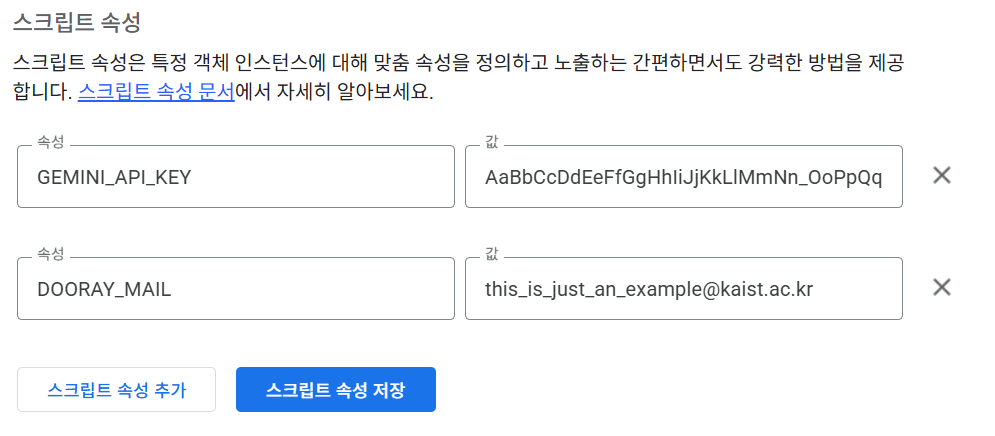
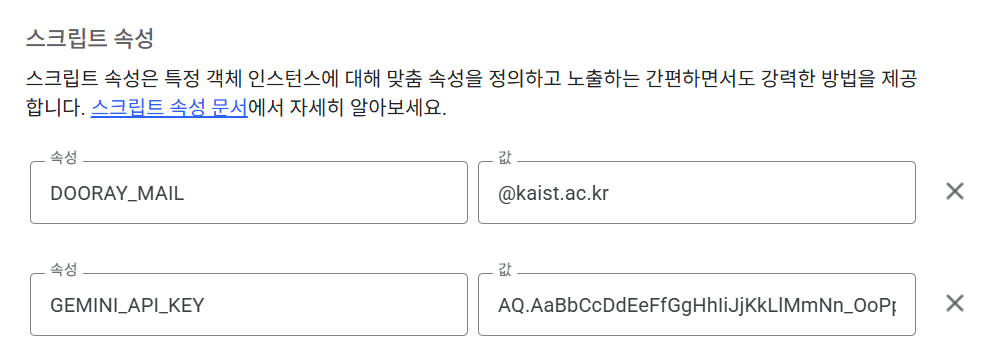
Update README.md

diff --git a/README.md b/README.md
@@ -92,7 +92,7 @@ API 키를 발급 완료했습니다. 다시 Google Apps Script로 돌아온 뒤
 
 ![Script Property 설정 3](etc/Photos/18.png)
 
-이메일 주소와 저장할 Calendar ID도 여기서 등록해야 합니다. 먼저 이메일 주소를 입력하기 위해 "Add Script property"를 눌러서 Property에는 "DOORAY_MAIL"을 입력하고 Value에는 Dooray! 메일 주소를 입력하세요. **Gmail 주소가 아니라 Dooray! 메일 주소를 입력해야 합니다.**
+이메일 주소와 저장할 Calendar ID도 여기서 등록해야 합니다. 먼저 이메일 주소를 입력하기 위해 "Add Script property"를 눌러서 Property에는 "DOORAY_MAIL"을 입력하고 Value에는 여러분이 받아서 처리하고 싶은 Dooray! 메일 주소를 입력하세요. 아래 예시의 경우 @kaist.ac.kr로부터 보내지는 모든 메일 주소를 기준으로 하였습니다. **Gmail 주소가 아니라 Dooray! 메일 주소를 입력해야 합니다.**
 
 ![Script Property 설정 4](etc/Photos/19.png)
 
@@ -123,8 +123,11 @@ Log가 정상적으로 뜨면 잘 작동했다는 뜻입니다. 이제 자동화
 
 
 # 어떻게 커스터마이징하나요?
+이 프로젝트는 정답이 정해진 완제품이 아닙니다. 본인의 업무 스타일에 맞춰 내 마음대로 뜯어고쳐 쓸 수 있도록 만들어졌습니다. 
 
-이 프로젝트는 정답이 정해진 완제품이 아닙니다. 본인의 업무 스타일에 맞춰 내 마음대로 뜯어고쳐 쓸 수 있도록 만들어졌습니다. Gemini API를 사용하는 만큼, 현재 사용되는 프롬프트인 
+위의 예시에서는 `DOORAY_MAIL` 값을 `@kaist.ac.kr`로 지정하였고, 코드 내 `searchQuery` 변수를 `is:unread to:(${DOORAY_MAIL})`로 설정하여 읽지 않은 메일 중 `@kaist.ac.kr`로부터 날아온 메일만 처리하도록 하였습니다. 여기서 `searchQuery`를 `is:unread from:(${DOORAY_MAIL})`으로 바꾼다면 `@kaist.ac.kr`로 온 메일들만 처리하게 됩니다. 이런 방식들로 검색하고 싶은 메일을 원하는 방식으로 지정이 가능하고, 여러 가지 문법들로 다양한 필터링이 가능합니다.
+
+또한 Gemini API를 사용하는 만큼, 현재 코드 내에서 Gemini API에게 사용되는 프롬프트는 다음과 같은데:
 
 ```js
 const prompt = `
@@ -156,7 +159,9 @@ ${body.substring(0, 4000)}
 }
 `;
 ```
-위 내용을 변경한다면 원하는 대로 사용이 가능합니다. 요약 스타일을 변경한다던지, 시간 기본값 세팅을 바꾼다던지, 특정 키워드가 들어가면 제목 앞에 무조건 \[긴급\] 같은 글자를 붙인다던지 하는 방식으로 할 수 있습니다. 또한 코드 자체는 Dooray!의 자동 전달 메일 기능을 사용해 Gmail에서만 동작하게 한 Google Apps Script 코드이므로 Gmail로 자동으로 보낼 수 있는 그 어떤 메일이든지 변환해서 사용이 가능합니다. MIT 라이선스에 따라, 코드 수정, 재배포, 상업적 사용이 가능하므로 마음대로 커스터마이징해서 사용하시면 됩니다. 이 코드도 LLM의 도움을 받아 만들어진 코드여서, LLM을 사용해 입맛대로 코드를 변경하는 것도 한 가지 방법일 수 있습니다.
+위 내용을 변경한다면 원하는 방식으로 사용이 가능합니다. 요약 스타일을 변경한다던지, 시간 기본값 세팅을 바꾼다던지, 특정 키워드가 들어가면 제목 앞에 무조건 \[긴급\] 같은 글자를 붙인다던지 하는 방식으로 할 수 있습니다. 또한 코드 자체는 Dooray!의 자동 전달 메일 기능을 사용해 Gmail에서만 동작하게 한 Google Apps Script 코드이므로 Gmail로 자동으로 보낼 수 있는 그 어떤 메일이든지 변환해서 사용이 가능합니다.
+
+MIT 라이선스에 따라, 코드 수정, 재배포, 상업적 사용이 가능하므로 마음대로 커스터마이징해서 사용하시면 됩니다. 이 코드도 LLM의 도움을 받아 만들어진 코드여서, LLM을 사용해 입맛대로 코드를 변경하는 것도 한 가지 방법일 수 있습니다.
 
 
 
